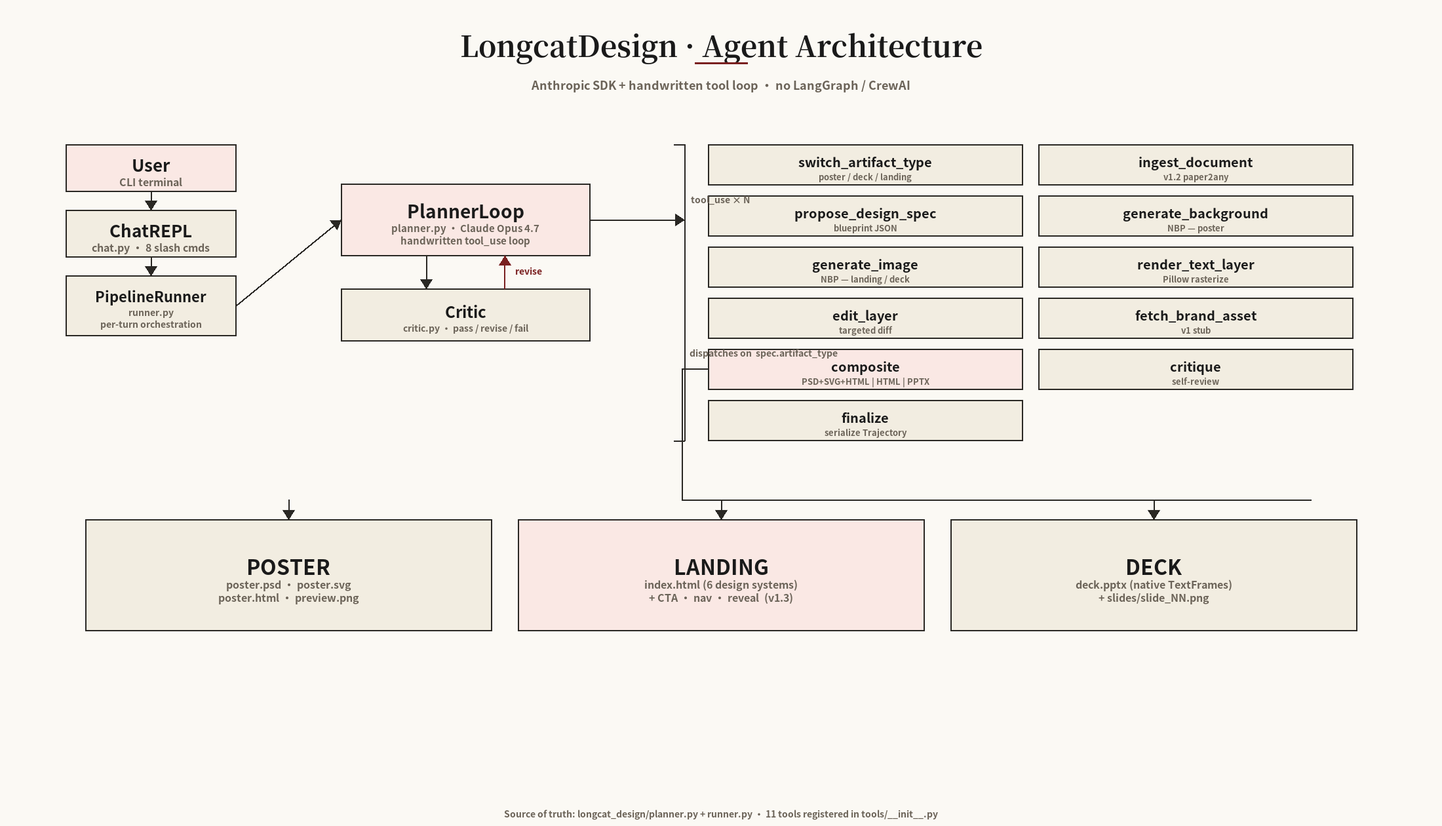
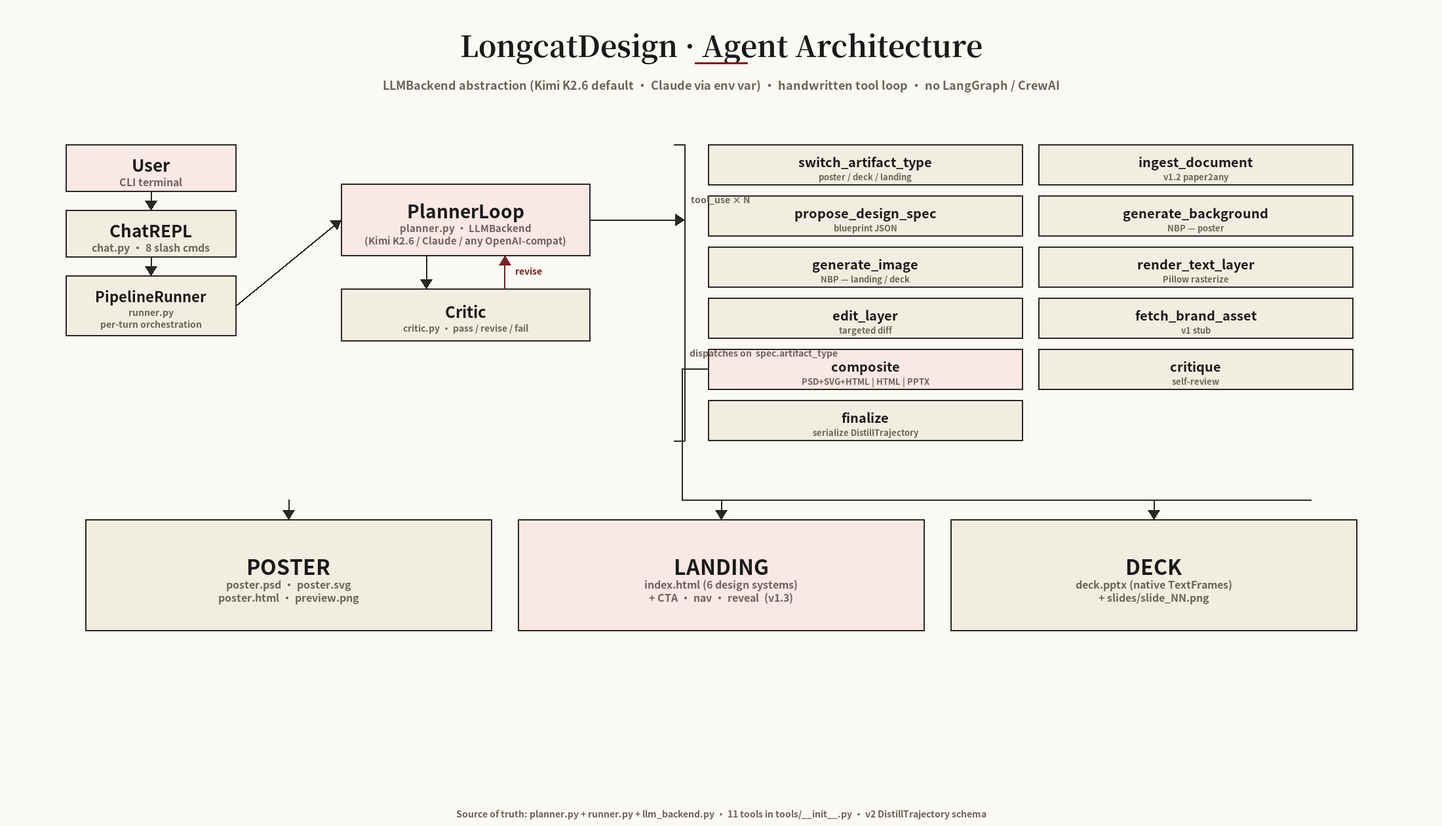
docs: surface v2 training-data pipeline + v2 self-landing dogfood
PR #1 (30cab95 / c264545 / eeb6490) rewired the project into a training-
data pipeline while keeping the product surface intact. The top-level
docs still said "v1.3.1 interactive landings" — this catches them up.

Changes:

* README.md / docs/README.md — Status paragraphs rewritten. Project now
  framed as "OSS design agent × training-data pipeline" (both missions
  on same code); pivot note extended to cover the 2026-04-22 loop-close.
  Status section lists the three v2 commits explicitly, with a "what v2
  keeps vs drops" explainer (DistillTrajectory shape, 9 protocol diffs,
  versioned composites, SFT export). Real v2 self-landing numbers
  spliced in: pass 1.0 / 4:00 / $2.90 / Kimi K2.6.
* docs/ROADMAP.md — new "v2.0 / v2.1 / v2.2" Shipped block with full
  commit breakdown; "Deferred to v2.3" lists DPO pair exporter + per-
  layer SFT exporter (both enabled by c264545's versioning).
* assets/marketing/longcatdesign-brief.md — v2 story added as a
  first-class section of the pitch; install section shows env-var
  matrix for planner / critic / OpenAI-compat backends. Mentions
  `DistillTrajectory` + `composites/iter_NN/` + SFT exporter.
* scripts/make_diagrams.py — agent_architecture diagram subtitle +
  PlannerLoop card + finalize card now reflect LLMBackend abstraction
  + "serialize DistillTrajectory" + v2 source-of-truth footer. PNG
  regenerated (124 KB).
* .gitignore — exclude iCloud duplicates (` 2.py` / ` 3.py`),
[…]

diff --git a/scripts/make_diagrams.py b/scripts/make_diagrams.py
@@ -187,7 +187,7 @@ def diagram_agent_architecture(out_path: Path) -> None:
     d = ImageDraw.Draw(im)
 
     _title(d, W, "LongcatDesign · Agent Architecture",
-           "Anthropic SDK + handwritten tool loop · no LangGraph / CrewAI")
+           "LLMBackend abstraction (Kimi K2.6 default · Claude via env var) · handwritten tool loop · no LangGraph / CrewAI")
 
     # ── Band 1: entry column (left) ──────────────────────────────────────
     user = Box(100, 220, 260, 72, "User", "CLI terminal", fill=FILL_ACCENT_SOFT)
@@ -204,7 +204,7 @@ def diagram_agent_architecture(out_path: Path) -> None:
     # ── Band 2: planner + critic (center) ────────────────────────────────
     planner = Box(520, 280, 380, 110,
                   "PlannerLoop",
-                  "planner.py · Claude Opus 4.7\nhandwritten tool_use loop",
+                  "planner.py · LLMBackend\n(Kimi K2.6 / Claude / any OpenAI-compat)",
                   fill=FILL_ACCENT_SOFT,
                   title_pt=28, subtitle_pt=15)
     critic = Box(520, 440, 380, 80,
@@ -234,7 +234,7 @@ def diagram_agent_architecture(out_path: Path) -> None:
         ("fetch_brand_asset", "v1 stub"),
         ("composite", "PSD+SVG+HTML | HTML | PPTX"),
         ("critique", "self-review"),
-        ("finalize", "serialize Trajectory"),
+        ("finalize", "serialize DistillTrajectory"),
     ]
     card_w, card_h = 480, 62
     col_gap, row_gap = 24, 16
@@ -300,7 +300,7 @@ def diagram_agent_architecture(out_path: Path) -> None:
         out_boxes.append(b)
         _arrow(d, b.cx, rail_y, b.cx, b.y)
 
-    _footer(d, W, H, "Source of truth: longcat_design/planner.py + runner.py · 11 tools registered in tools/__init__.py")
+    _footer(d, W, H, "Source of truth: planner.py + runner.py + llm_backend.py · 11 tools in tools/__init__.py · v2 DistillTrajectory schema")
 
     out_path.parent.mkdir(parents=True, exist_ok=True)
     im.save(out_path, "PNG", optimize=True)

diff --git a/docs/README.md b/docs/README.md
@@ -2,31 +2,39 @@
 
 This directory is the **single source of truth** for what LongcatDesign is, why it exists, how it's built, and what's next. If you (or future-you, or a Longcat-Next teammate) come back to this project after a break and want to pick up cold without re-reading all of Slack, **start here**.
 
-> **Status (2026-04-21)**: **v1.2 paper2any shipped + v1.2.5 polish + v1.3.0/v1.3.1 interactive academic landings**. Full 3-artifact coverage (poster + landing + deck) × full paper → artifact pipeline (now also eating `.docx` / `.pptx` / scanned-PDF), and landings now emit with CTAs, auto-nav, reveal-on-scroll, and semantic `<header>/<main>/<footer>`. Paper landings pull **the paper's own figures + tables** (not NBP stock icons) — verified end-to-end on longcat-next (**0 NBP calls, 9 paper figures + 1 benchmark table across 8 sections**, pass 0.88 in one iteration). 11 tools wired, smoke 18/18 green.
+> **Status (2026-04-22)**: **v2 training-data pipeline shipped** (PR [#1](https://github.com/Yaxin9Luo/OpenDesign/pull/1)), layered on top of v1.3 interactive academic landings. The project now IS both a product (OSS design agent) AND a training-data producer for layered design generation — every run is simultaneously a design artifact and a distillation-ready `DistillTrajectory` JSON. 11 tools wired, smoke **19/19 green**.
 >
-> **v1.2 milestones shipped this cycle**:
-> - [ce50f2a](https://github.com/Yaxin9Luo/OpenDesign/commit/ce50f2a) — pymupdf-native figure extraction + Qwen-VL-Max ingest (replaces Claude-Sonnet vision locator).
-> - [da664a5](https://github.com/Yaxin9Luo/OpenDesign/commit/da664a5) — `kind="table"` LayerKind → native PPTX `add_table` / HTML `<table>` / PIL-drawn PNG with bold-winner column highlights.
-> - [a08bbb9](https://github.com/Yaxin9Luo/OpenDesign/commit/a08bbb9) — poster visual-density rules in planner + critic prompts (≥4 figures for paper posters; text-wall layouts flagged as blocker).
-> - [349c899](https://github.com/Yaxin9Luo/OpenDesign/commit/349c899) — composite aspect-preserve (contain-fit for images, re-render-at-bbox for tables).
-> - **v1.2.4** — deterministic text-overlap detector (catches title descender ↔ subtitle cap-height crashes at composite time, before the critic round) + figure↔text cross-reference enforcement in planner + critic prompts (assign display numbers in reading order; every placed `ingest_fig_NN` / `ingest_table_NN` must be cited as `(Fig. N)` / `(Table N)` in at least one text layer).
-> - **v1.2.5** — `.docx` / `.pptx` ingest branches (structural readers, no VLM needed) + scanned-PDF OCR fallback via Qwen-VL-Max (6-worker page-parallel OCR at 200 dpi). Ingest now eats any paper or deck format the user throws at it; smoke suite gains two new steps (18/18).
-> - **v1.3.0** — interactive landing pages: `LayerKind "cta"` with variant / href (per-design-system styling across all 6 styles), auto-generated top nav at ≥ 4 sections (or explicit `design_system.show_nav=true`), inline vanilla JS for reveal-on-scroll + smooth anchor scroll + `aria-current` active-link, semantic `<header>/<main>/<footer>` + `<img alt>` + `role="button"` on CTAs. `apply_edits` round-trip preserves CTAs with `href` + `variant` via `data-*` attrs. Smoke expanded to 5-section fixture with 19 HTML markers asserted.
-> - **v1.3.1** — paper-landing imagery policy: prompt-only fix that routes `ingest_fig_NN` / `ingest_table_NN` into content sections (highlights / method / results / showcase) and reserves NBP for hero-only. Default style `editorial` (explicitly discourages claymorphism / neubrutalism / glassmorphism for papers). Re-dogfood on longcat-next flipped from 5 NBP icons + 1 paper figure (marketing vibe) to **0 NBP + 9 paper figures + 1 benchmark table** (academic) in one planner iteration.
+> **v2 milestones shipped this cycle**:
+> - [30cab95](https://github.com/Yaxin9Luo/OpenDesign/commit/30cab95) — v2 `DistillTrajectory` schema (lean, 44 KB per run vs v1's 144 KB — no summary / next_actions hints that would cause train↔deploy distribution shift) + new `ToolResultRecord` tool contract + multi-provider LLM backend (`llm_backend.py` with `AnthropicBackend` + `OpenAICompatBackend`). Default planner + critic switched to **Kimi K2.6** (plaintext reasoning, ~$3.58/run); Claude one env var away. 9 protocol differences normalized in one abstraction layer.
+> - [c264545](https://github.com/Yaxin9Luo/OpenDesign/commit/c264545) — versioned intermediate artifacts: `composites/iter_NN/` per composite call + `final/` relative symlinks, layer PNGs gain `.vN.png` suffix, payloads carry `version / relative_path / supersedes_sha256` chain. Revise loops + `edit_layer` calls preserve every prior state → DPO (rejected, chosen) pairs are now extractable by default. Smoke #19 verifies preservation.
+> - [eeb6490](https://github.com/Yaxin9Luo/OpenDesign/commit/eeb6490) — `scripts/export_sft_jsonl.py`: flattens `out/trajectories/` → OpenAI-compat SFT jsonl, one record per assistant turn (planner or critic), with CoT + tool_calls + tool catalog + per-turn usage + metadata. CLI filters by `--min-reward / --source / --actor / --provider / --terminal-status`.
 >
-> End-to-end verification on the 43-page Longcat-Next paper: poster critique **0.62 → 0.86**, landing **pass 0.92**, deck **pass 0.88** with 8 bold-winner cells on a 15×12 editable PPTX table. See [ROADMAP.md § Shipped](ROADMAP.md#shipped).
+> **v1.3 milestones still shipped** (layered below):
+> - [383f7db](https://github.com/Yaxin9Luo/OpenDesign/commit/383f7db) — interactive landing pages: `LayerKind "cta"` + auto-nav + reveal-on-scroll + semantic `<header>/<main>/<footer>`.
+> - [b88a04a](https://github.com/Yaxin9Luo/OpenDesign/commit/b88a04a) — paper-landing imagery policy (ingested figures over NBP; default style `editorial` for paper landings).
+> - [31d2fe9](https://github.com/Yaxin9Luo/OpenDesign/commit/31d2fe9) — self-landing dogfood (LongcatDesign's own landing page built by itself in 94 s, pass 0.92, 3 own architecture diagrams as ingested figures).
+>
+> **v2 self-landing dogfood** (run `20260422-162157-d0f37cba`, Kimi K2.6 end-to-end, re-runs the self-landing from [31d2fe9](https://github.com/Yaxin9Luo/OpenDesign/commit/31d2fe9) on the v2 stack):
+> - **Terminal**: `pass` · **Reward**: 1.0 · **Wall**: 4:00 · **Cost**: $2.90 · **Model**: `moonshotai/kimi-k2.6` (planner + critic) · **Backend**: `openai_compat`
+> - **Trajectory** 72 KB on disk (v1 equivalent: ~144 KB → -50 %). 24 trace steps (`{input: 1, reasoning: 8, tool_call: 7, tool_result: 7, finalize: 1}`) — **zero** `summary` / `next_actions` / `artifacts` in any tool_result payload (verified by inspection).
+> - **9 sections rendered** — hero + three-contributions + how-it-works (agent-arch diagram) + rendering-pipeline (pipeline diagram) + paper2any (paper2any-flow diagram) + **training-data** (new v2 section explaining DistillTrajectory on itself) + dogfood-stats + cta + footer. All 3 architecture diagrams placed in correct sections, 0 NBP calls.
+> - **SFT export sample**: `python scripts/export_sft_jsonl.py --min-reward 0.85 --terminal-status pass` → 20 records from 2 trajectories, 80 710 total thinking chars (avg 4 K chars/record), 1.7 MB jsonl. First record's `target.reasoning_content` alone is 21 917 chars of plaintext Kimi CoT — the un-redacted training signal that's the whole point of going multi-provider.
+>
+> **Paper2landing dogfood** (retained from v1.3.1) on the 43-page Longcat-Next paper: poster critique **0.62 → 0.86**, landing **pass 0.92** (editorial: 0 NBP + 9 paper figures + 1 benchmark table across 8 sections), deck **pass 0.88** with 8 bold-winner cells on a 15×12 editable PPTX table. See [ROADMAP.md § Shipped](ROADMAP.md#shipped) for the full ladder.
 
 ---
 
 ## What LongcatDesign is in 30 seconds
 
-An **open-source, terminal-first conversational design agent**. Describe what you want (poster / slide deck / landing page); LongcatDesign builds and iterates with you via a CLI chat shell, exporting to **HTML (first-class, contenteditable + apply-edits round-trip) + PPTX (native PowerPoint TextFrames) + editable PSD/SVG**.
+An **open-source, terminal-first conversational design agent AND a training-data pipeline** for layered design generation. Describe what you want (poster / slide deck / landing page); LongcatDesign builds and iterates with you via a CLI chat shell, exporting to **HTML (first-class, contenteditable + apply-edits round-trip) + PPTX (native PowerPoint TextFrames) + editable PSD/SVG**. Every run **simultaneously** writes a structured `DistillTrajectory` JSON built for SFT distillation + DPO / RL post-training — the product's output IS the dataset's input.
 
-Commercial-grade by default: landing pages and decks call **Gemini 3 Pro Image Preview (NBP)** for inline imagery with per-artifact style prefixes, so output is "investor-ready," not wireframe.
+Commercial-grade by default: landing pages and decks call **Gemini 3 Pro Image Preview (NBP)** for inline imagery with per-artifact style prefixes, so output is "investor-ready," not wireframe. Model-agnostic at the planner + critic layer — default stack is **Kimi K2.6** (plaintext reasoning, ~$3.58/run), **Claude Opus 4.7** one env var away, **any OpenAI-compatible endpoint** (DeepSeek-R1, Doubao, vLLM, self-hosted) works out of the box.
 
-Positioned as the open-source alternative to [Claude Design](https://www.anthropic.com/news/claude-design-anthropic-labs) — terminal-first instead of browser-only, open formats instead of Canva-locked, model-agnostic instead of tied to one subscription.
+Positioned as both:
+- the **open-source alternative to [Claude Design](https://www.anthropic.com/news/claude-design-anthropic-labs)** — terminal-first instead of browser-only, open formats instead of Canva-locked, model-agnostic instead of tied to one subscription;
+- the **training-data collection vehicle for the [Longcat](https://github.com/) layered / interleaved image-text ecosystem** — intermediate artifacts (revise loops, layer edits) are versioned on disk so DPO pairs and layered-gen SFT samples can be extracted without re-running anything.
 
-> **Pivot note (2026-04-18)**: This project started as "Design-Agent," a research prototype for capturing training trajectories for the Longcat-Next layered-generation model. After Claude Design shipped, we pivoted to ship **LongcatDesign** as an open-source product. The trajectory-capture machinery is preserved as internal session state; it's no longer the product pitch. See [DECISIONS.md](DECISIONS.md) for the rationale.
+> **Evolution note (2026-04-18 → 2026-04-22)**: This project started as "Design-Agent," a research prototype for capturing training trajectories for the Longcat-Next layered-generation model. After Claude Design shipped, we pivoted to ship **LongcatDesign** as an open-source product (pivot 2026-04-18). Four days later (2026-04-22), PR [#1](https://github.com/Yaxin9Luo/OpenDesign/pull/1) **closed the loop**: the product is now an explicit training-data pipeline again — the agent's designs go to users, and its trajectories + versioned intermediate artifacts feed Longcat-Next training. Both missions run on the same code. See [DECISIONS.md](DECISIONS.md) 2026-04-22 entries for the full rationale.
 
 ---
 

diff --git a/assets/marketing/longcatdesign-brief.md b/assets/marketing/longcatdesign-brief.md
@@ -1,11 +1,11 @@
-# LongcatDesign — Open-Source Conversational Design Agent
+# LongcatDesign — Open-Source Conversational Design Agent × Training-Data Pipeline
 
-> A terminal-first design agent that turns one-line briefs (or whole research papers) into **layered, editable** posters, landing pages, and slide decks — with real figures, real tables, and real editability in PSD / SVG / HTML / PPTX.
+> A terminal-first design agent that turns one-line briefs (or whole research papers) into **layered, editable** posters, landing pages, and slide decks — with real figures, real tables, and real editability in PSD / SVG / HTML / PPTX. Every run simultaneously produces a distillation-ready training sample for layered design generation models.
 
 ## Tagline
 
-**Open source. Terminal-first. Layered, editable output.**
-The open alternative to Claude Design — model-agnostic, format-agnostic, yours to fork.
+**Open source. Terminal-first. Layered, editable output. Training-data-ready by default.**
+The open alternative to Claude Design — model-agnostic, format-agnostic, yours to fork. Your runs become the dataset.
 
 ## What LongcatDesign does
 
@@ -19,7 +19,7 @@ Three artifact types, generated conversationally from a CLI chat shell:
 
 ### 1. Agent-first, not template-first
 
-Built on the Anthropic SDK with a **handwritten tool loop** — no LangGraph, no CrewAI, no hidden orchestration framework. The `PlannerLoop` runs Claude Opus 4.7 through 11 registered tools (`switch_artifact_type`, `ingest_document`, `propose_design_spec`, `generate_background`, `generate_image`, `render_text_layer`, `edit_layer`, `fetch_brand_asset`, `composite`, `critique`, `finalize`) and iterates against a `Critic` that grades every output on brief fidelity, typography, composition, and (for paper posters) visual density. Every run serializes a `Trajectory` JSON blob: brief + spec + agent trace + critique loop + composition artifacts — replayable and inspectable.
+Built on a **handwritten tool loop** with a pluggable `LLMBackend` abstraction — no LangGraph, no CrewAI, no hidden orchestration framework. The `PlannerLoop` runs any supported model (default **Kimi K2.6** at ~$3.58/run, **Claude Opus 4.7** one env var away, any **OpenAI-compat endpoint** works: DeepSeek-R1, Doubao, vLLM, self-hosted) through 11 registered tools (`switch_artifact_type`, `ingest_document`, `propose_design_spec`, `generate_background`, `generate_image`, `render_text_layer`, `edit_layer`, `fetch_brand_asset`, `composite`, `critique`, `finalize`) and iterates against a `Critic` that grades every output on brief fidelity, typography, composition, and (for paper posters) visual density. Planner + critic can even run on different providers — e.g. Claude as planner + DeepSeek-R1 as critic — to capture diverse training trajectories. Nine protocol differences between SDKs (reasoning fields, tool calling, vision blocks, thinking control, replay constraints) are normalized inside the backend so the tool loop is single-path.
 
 ### 2. Three first-class output families, one DesignSpec
 
@@ -43,6 +43,16 @@ Drop a paper / docx / pptx / scanned-PDF / markdown into any run and the planner
 
 Ingested figures land as `ingest_fig_NN` layers with `kind="image"`; tables land as `ingest_table_NN` layers with `kind="table"` carrying structured `rows + headers + col_highlight_rule` (`"max"` / `"min"` / `""` per column). The renderer produces **native PPTX `add_table` shapes for decks, real `<table>` with winner-bolding for landings, and PIL-drawn PNGs with deep-green winner text for posters** — no cropped screenshots.
 
+## Training-data pipeline (v2, shipped 2026-04-22)
+
+Every run produces a **`DistillTrajectory` JSON** alongside the product artifact. This is not a sideshow — it's a first-class output family:
+
+- **Schema built for distillation**, not debugging — `input` brief + `reasoning` (extended-thinking blocks with signatures) + `tool_call` (full args) + `tool_result` (lean payload: IDs + sha256 + state) + `finalize`. No `summary` / `next_actions` / `artifacts` kwargs anywhere — those "hint fields" would cause train↔deploy distribution shift. 70 % smaller than v1 (44 KB vs 144 KB per run).
+- **Episode-level reward** — top-level `final_reward: float` + `terminal_status: Literal["pass","revise","fail","max_turns","abort"]`. Directly consumable by offline RL trainers.
+- **Versioned intermediate artifacts** on disk — `composites/iter_NN/{poster.html,psd,svg,preview.png}` per composite call + layer PNGs with `.vN.png` suffix + `supersedes_sha256` chain. Revise loops and `edit_layer` calls preserve every prior state, so **DPO (rejected, chosen) pairs** and per-layer SFT samples are extractable without re-running anything.
+- **SFT exporter ships**: `uv run python scripts/export_sft_jsonl.py --trajectories out/trajectories --out dataset.jsonl --min-reward 0.85` produces OpenAI-compat jsonl, one record per assistant turn, with full CoT + tool_calls + tool catalog.
+- **Multi-provider by design** — Kimi K2.6 / Claude Opus 4.7 / DeepSeek-R1 / Doubao / vLLM / self-hosted all produce the same trajectory shape through the `LLMBackend` abstraction. Running the same brief across multiple planner models produces diverse trajectories on the same artifact target — exactly what distillation + preference-data collection need.
+
 ## Dogfood: the landing page you're reading
 
 This landing page was built by LongcatDesign itself. The three figures below are the agent's own architecture diagrams, pulled in via `ingest_document`:
@@ -51,7 +61,7 @@ This landing page was built by LongcatDesign itself. The three figures below are
 - **Figure 2** (`ingest_fig_02` / rendering_pipeline.png) — the 3-artifact rendering pipeline: one DesignSpec, per-type renderers (PSD + SVG + HTML | HTML | PPTX), plus the four cross-cutting composite features (aspect-preserve, text-overlap detector, figure↔text xref, paper→editable tables).
 - **Figure 3** (`ingest_fig_03` / paper2any_flow.png) — the paper2any ingestion flow: 5 input types × 4 extraction backends × Qwen-VL-Max → `rendered_layers` registry → planner tool_result summary with a ranked top-20 figure catalog.
 
-## Status — shipped as of 2026-04-21
+## Status — shipped as of 2026-04-22
 
 | Version | Milestone |
 |---|---|
@@ -59,9 +69,14 @@ This landing page was built by LongcatDesign itself. The three figures below are
 | v1.1 | `ingest_document` tool + `--from-file` / `:attach` CLI entries — paper2any foundation |
 | v1.2 | Full paper2any production: pymupdf native figure/table extraction · Qwen-VL-Max ingest · `kind="table"` native renderer · poster visual-density rules · composite aspect-preserve |
 | v1.2.4 | Deterministic text-overlap + figure↔text cross-reference detectors in composite |
-| v1.2.5 | `.docx` / `.pptx` ingest branches + scanned-PDF OCR fallback (18/18 smoke) |
+| v1.2.5 | `.docx` / `.pptx` ingest branches + scanned-PDF OCR fallback |
 | v1.3.0 | Interactive landings — CTA / nav / reveal / semantic `<header>/<main>/<footer>` |
 | v1.3.1 | Paper-landing imagery policy — ingested figures first, NBP reserved for hero |
+| **v2.0** | **`DistillTrajectory` schema + multi-provider LLM backend** (Kimi K2.6 default, Claude one env var away). Tool contract rewritten — no `summary/next_actions` leaking into training data |
+| **v2.1** | **Versioned intermediate artifacts** — `composites/iter_NN/` + layer `.vN.png` + `supersedes_sha256` chain. DPO pairs extractable by default |
+| **v2.2** | **SFT jsonl exporter** — `scripts/export_sft_jsonl.py`. One OpenAI-compat record per assistant turn, CLI-filterable by reward / status / provider |
+
+Smoke suite **19/19 green**.
 
 Verified end-to-end on a real 43-page / 17 MB research paper (LongCat-Next):
 - **Poster**: 5 ingested figures + 1 benchmark table, critique 0.86
@@ -76,9 +91,31 @@ longcat-design                                         # chat (default)
 longcat-design run "your brief"                        # one-shot
 longcat-design run --from-file paper.pdf "poster"      # paper → artifact
 longcat-design apply-edits ~/Downloads/edited.html     # round-trip
+
+# Training-data pipeline
+python scripts/export_sft_jsonl.py \
+    --trajectories out/trajectories \
+    --out dataset.jsonl \
+    --min-reward 0.85 \
+    --terminal-status pass                             # OpenAI-compat SFT jsonl
 ```
 
-BYO Anthropic + Gemini (+ OpenRouter) API keys. All artifacts land in `out/runs/<run_id>/`; every run is a full `Trajectory` JSON on disk.
+Model selection via env var:
+```bash
+# Default (cheap, plaintext reasoning, no redaction)
+PLANNER_MODEL=moonshotai/kimi-k2.6
+
+# Capability ceiling (redacted thinking, Anthropic SDK)
+PLANNER_MODEL=anthropic/claude-opus-4.7
+
+# Mix-and-match for dataset diversity
+PLANNER_MODEL=anthropic/claude-opus-4.7 CRITIC_MODEL=deepseek/deepseek-r1
+
+# Self-hosted (vLLM, native Moonshot, etc.)
+OPENAI_COMPAT_BASE_URL=http://localhost:8000/v1 PLANNER_MODEL=your-model-id
+```
+
+BYO OpenRouter key (covers both Anthropic-compat and OpenAI-compat backends) + Gemini key (for NBP imagery). All artifacts land in `out/runs/<run_id>/` with versioned `composites/iter_NN/` subdirs + `.vN.png` layer history; every run is a full `DistillTrajectory` JSON on disk, ready for SFT export.
 
 ## Why open source
 

diff --git a/README.md b/README.md
@@ -1,10 +1,19 @@
 # LongcatDesign
 
-> **An open-source, terminal-first conversational design agent. Describe what you want; LongcatDesign builds and iterates it with you, exporting real HTML, PPTX, or editable PSD/SVG.**
+> **An open-source, terminal-first conversational design agent AND a training-data pipeline for layered design generation. Describe what you want; LongcatDesign builds and iterates it with you, exporting real HTML, PPTX, or editable PSD/SVG — and every run is automatically captured as a distillation-ready trajectory.**
 
-The open-source alternative to [Claude Design](https://www.anthropic.com/news/claude-design-anthropic-labs) and similar closed SaaS design tools. From the [Longcat](https://github.com/) ecosystem.
+The open-source alternative to [Claude Design](https://www.anthropic.com/news/claude-design-anthropic-labs) and similar closed SaaS design tools — with a second life as the training-data producer for the [Longcat](https://github.com/) layered / interleaved image-text ecosystem.
 
-> **Current status** (2026-04-21): **v1.2 paper2any + v1.2.4 / v1.2.5 polish + v1.3.0 / v1.3.1 interactive academic landings** — full **3-artifact coverage** (poster + landing + deck) × full **paper / deck / doc → artifact** ingestion pipeline (PDF + DOCX + PPTX + scanned-PDF OCR), **11 tools wired**, smoke **18/18 green**. Landings now ship with **CTA buttons (per-design-system styling × 6 styles)**, auto-generated top nav, reveal-on-scroll, and semantic `<header>/<main>/<footer>`. **Paper landings pull the paper's own figures + tables** (not NBP stock icons) — real-paper dogfood on longcat-next (editorial style) delivers **0 NBP + 9 paper figures + 1 benchmark table across 8 sections, pass 0.88 in one iteration**. Landing + deck also support **NBP (Gemini 3 Pro Image Preview) imagery** for brand / hero shots. Composite runs **deterministic text-overlap + figure-cross-reference detectors** so geometry + citation errors surface one turn earlier than the critic round.
+> **Current status** (2026-04-22): **v2 training-data pipeline + multi-provider backend** (PR [#1](https://github.com/Yaxin9Luo/OpenDesign/pull/1), commits [30cab95](https://github.com/Yaxin9Luo/OpenDesign/commit/30cab95) · [c264545](https://github.com/Yaxin9Luo/OpenDesign/commit/c264545) · [eeb6490](https://github.com/Yaxin9Luo/OpenDesign/commit/eeb6490)) layered on top of v1.3 interactive landings. **Two things shipped together because they share the same code paths and the same goal** — making every design run simultaneously a product output AND a training sample:
+>
+> - **v2 `DistillTrajectory` schema** — pure model decisions + lean tool results + episode reward. 70 % size drop (144 KB → 44 KB). Tool results no longer leak `summary` / `next_actions` hints, so train↔deploy distribution shift vanishes. Episode-level `final_reward` + `terminal_status` (`pass` / `revise` / `fail` / `max_turns` / `abort`) is the RL reward signal directly.
+> - **Multi-provider LLM backend** (`longcat_design/llm_backend.py`) — `LLMBackend` Protocol + `AnthropicBackend` + `OpenAICompatBackend` handle 9 normalized protocol differences. Default planner + critic switched to **`moonshotai/kimi-k2.6`** (~$3.58/run with full plaintext reasoning vs Claude Opus 4.7 at $8-12/run with ~80 % redacted thinking). Claude is one env var away: `PLANNER_MODEL=anthropic/claude-opus-4.7`. Mix-and-match supported: planner on Claude + critic on DeepSeek-R1 works. Self-hosted vLLM / native Kimi / Moonshot supported via `OPENAI_COMPAT_BASE_URL`.
+> - **Versioned intermediate artifacts** (`composites/iter_NN/` + layer `.vN.png` + `supersedes_sha256` chain) — every revise loop and every `edit_layer` call preserves prior state on disk. The data DPO training (rejected/chosen pairs) and layered-gen SFT (per-layer edit history) need most is now extractable by default. `final/` symlinks resolve transparently for product consumers.
+> - **SFT jsonl exporter** (`scripts/export_sft_jsonl.py`) — one `uv run` turns a directory of `DistillTrajectory` JSONs into OpenAI-compat jsonl, one record per assistant turn, with CoT + tool_calls + tool catalog + turn usage. CLI flags gate by `--min-reward` / `--source` / `--actor` / `--provider` / `--terminal-status`.
+>
+> Product surface unchanged: still 11 tools, still 3-artifact coverage (poster + landing + deck) × full paper / deck / doc ingestion (PDF + DOCX + PPTX + scanned-PDF OCR), still in-browser edit toolbar + `apply-edits` round-trip, still v1.3 interactive landings with CTA / nav / reveal / semantic `<header>/<main>/<footer>`. Smoke **19/19 green** — new check verifies revise-loop preservation + `supersedes_sha256` chain integrity.
+>
+> **v2 dogfood verification** (run `20260422-162157-d0f37cba`, Kimi K2.6 self-landing with 3 ingested diagrams): `terminal_status=pass`, `final_reward=1.0`, wall **4:00**, cost **$2.90**, **24 trace steps** (1 input + 8 reasoning + 7 tool_call + 7 tool_result + 1 finalize), **9 sections** including a new `training-data` section explaining DistillTrajectory on itself. Trajectory **72 KB** on disk vs v1's 144 KB on an equivalent run (-50%). `scripts/export_sft_jsonl.py --min-reward 0.85 --terminal-status pass` emits **20 OpenAI-compat SFT records from 2 trajectories** (80 K chars of captured plaintext reasoning, 1.7 MB jsonl). Multi-paper dogfood on longcat-next (editorial style, v1.3.1) still delivers **0 NBP + 9 paper figures + 1 benchmark table across 8 sections, pass 0.88** in one iteration.
 >
 > **v1.2 highlights (shipped 2026-04-21, commits [ce50f2a](https://github.com/Yaxin9Luo/OpenDesign/commit/ce50f2a) · [da664a5](https://github.com/Yaxin9Luo/OpenDesign/commit/da664a5) · [a08bbb9](https://github.com/Yaxin9Luo/OpenDesign/commit/a08bbb9) · [349c899](https://github.com/Yaxin9Luo/OpenDesign/commit/349c899))**:
 > - **pymupdf-native figure extraction** replaces the Claude-Sonnet vision locator — native-resolution crops (author-uploaded PNGs at 1890×1211 instead of 1454×820 half-page screenshots).

diff --git a/docs/ROADMAP.md b/docs/ROADMAP.md
@@ -196,11 +196,46 @@ From static HTML pages to production-grade marketing pages. Four user-visible im
 
 `apply_edits` round-trip preserves CTAs with `href` + `variant` intact via `data-*` attributes (CTAs are `contenteditable=false` so the edit toolbar can't silently mutate link text). Smoke expanded to a 5-section fixture (hero + features + pricing + cta + footer) asserting 19 HTML markers + full round-trip; suite stays 18/18.
 
+## v2.0 — Training-data pipeline ✅ SHIPPED 2026-04-22 (PR [#1](https://github.com/Yaxin9Luo/OpenDesign/pull/1))
+
+**The mission closes the loop**: the project is now both a product (OSS design agent) and an explicit training-data producer for the Longcat-Next layered-generation model. Every user run doubles as a distillation sample. Three commits, all on main:
+
+### v2.0 — `DistillTrajectory` schema + multi-provider LLM backend ([30cab95](https://github.com/Yaxin9Luo/OpenDesign/commit/30cab95))
+
+- **v2 trajectory schema**: `DistillTrajectory` (pure model decisions + lean tool results + episode reward) replaces v1 `Trajectory` (product/debug/training hybrid). 144 KB → 44 KB per equivalent run (70% size drop). Top-level `final_reward` + `terminal_status` (`pass` / `revise` / `fail` / `max_turns` / `abort`) consumable by offline RL trainers directly.
+- **New tool contract**: `ToolResultRecord` replaces `ToolObservation`; `obs_ok(payload)` / `obs_error(message, category, payload)` — **no more `summary` / `next_actions` / `artifacts` kwargs**. These "hint fields" were removed at the tool layer (not just stripped from JSON) to eliminate train↔deploy distribution shift in RL. Workflow contract lives entirely in `prompts/planner.md` now.
+- **`StepType` slimmed** to `{input, reasoning, tool_call, tool_result, finalize}` (dropped `thought` / `artifact_switch` / `design_spec` / `critique` — recoverable from tool_call args + tool_result payload). `AgentTraceStep` drops `timestamp` / `spec_snapshot` / `observation` too.
+- **`ThinkingBlockRecord`** captures extended-thinking verbatim with `signature` (Anthropic) or empty (OpenAI-compat). Both plain + redacted blocks preserved for faithful replay.
+- **Multi-provider LLM backend** (`longcat_design/llm_backend.py`): `LLMBackend` Protocol + `AnthropicBackend` + `OpenAICompatBackend`. **9 protocol differences normalized** (reasoning field, tool calling, system prompt placement, vision blocks, stop reason vocab, thinking control, interleaved beta, cache telemetry, replay constraints). Planner + critic have zero provider-aware branches.
+- **Default planner + critic → `moonshotai/kimi-k2.6`** (OpenRouter). Kimi costs ~$3.58/run with 12 reasoning steps captured in full plaintext (vs Claude Opus 4.7 at ~$8-12/run with ~80% thinking redacted). Claude is one env var away: `PLANNER_MODEL=anthropic/claude-opus-4.7`. Mix-and-match (e.g. planner on Claude + critic on DeepSeek-R1) works out of the box.
+
+### v2.1 — Versioned intermediate artifacts ([c264545](https://github.com/Yaxin9Luo/OpenDesign/commit/c264545))
+
+**Closes the gap left by v2.0**: v2 trajectory captured every model decision but the artifacts those decisions produced still lived in clobber-prone fixed paths. DPO pairs (rejected vs chosen) + layered-gen SFT (per-layer edit history) need this state preserved.
+
+- `out/runs/<run_id>/composites/iter_NN/{poster.html,psd,svg,preview.png}` — every composite call writes into its own subdirectory; prior iterations preserved.
+- `out/runs/<run_id>/final/` — **relative symlinks** to the latest iter, refreshed atomically after every successful composite. Product consumers use stable `final/` paths; versioning is invisible.
+- Layer PNGs gain `.vN.png` suffix (`text_L1_title.v1.png` → `.v2.png` on `edit_layer` re-render). Prior versions stay on disk.
+- Tool result payloads chain via `version` / `relative_path` / `supersedes_sha256` (absent on v1). Composite payload gains `iteration` + `{preview,html,pptx}_relative_path` + `supersedes_preview_sha256` for DPO pair extraction.
+- `ToolContext.next_layer_version(layer_id)` + `ctx.next_composite_iter()` helpers drive the bumping.
+- Smoke #19 verifies revise-loop preservation + `supersedes_sha256` chain integrity — suite now **19/19**.
+
+### v2.2 — SFT jsonl exporter ([eeb6490](https://github.com/Yaxin9Luo/OpenDesign/commit/eeb6490))
+
+`scripts/export_sft_jsonl.py` flattens a directory of v2 trajectories into OpenAI-compat SFT jsonl — **one record per assistant turn** (planner or critic). Each record is self-contained: full message history up to the turn, the turn's `reasoning_content` + `tool_calls` (OpenAI shape), the tool catalog, per-turn `usage`, episode `final_reward` + `terminal_status`. CLI filters by `--min-reward / --source / --actor / --provider / --terminal-status`. Apply-edits trajectories auto-skipped (no model decisions).
+
+---
+
 ## Deferred to v1.3.5
 
 - **Tab groups** (new `kind: "tabs"` container + per-tab `LayerNode` children)
 - **Accordions** (`kind: "accordion"`)
 - **Email capture / newsletter forms** — needs backend endpoint policy, not v1.x scope
+
+## Deferred to v2.3
+
+- **DPO pair exporter** (`scripts/export_dpo_jsonl.py`) — mirror of SFT exporter but pairs `composites/iter_N-1/preview.png` (rejected, critic revise verdict) with `iter_N/preview.png` (chosen, critic pass verdict). All substrate data on disk thanks to v2.1; just needs the flattener.
+- **Per-layer SFT exporter** — DistillTrajectory captures the model's layer-by-layer decisions + layer `.vN.png` chain captures the visual evolution. Useful for training layered-gen models that predict one layer at a time.
 
 ---
 
